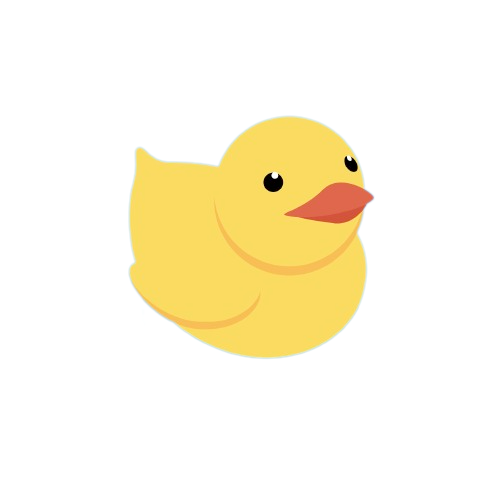
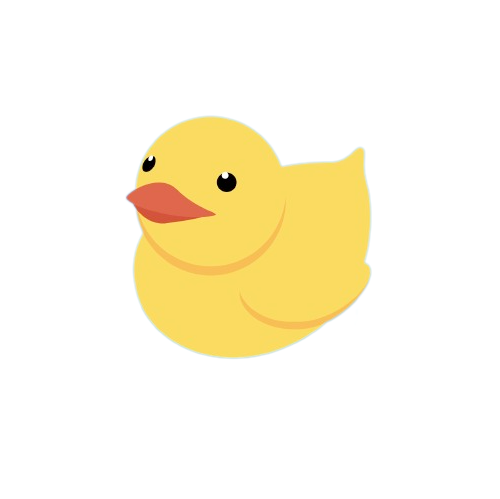
로긴 오리

Changed region(s): [[0.24, 0.2104, 0.75, 0.6012], [0.27, 0.5711, 0.72, 0.7214], [0.54, 0.4509, 0.57, 0.481]]

diff --git a/src/pages/Login.jsx b/src/pages/Login.jsx
@@ -176,14 +176,25 @@ const Wrapper = styled.div`
 
 const DuckAnimation2 = keyframes`
   0% {
-    transform: translateX(300px) translateY(100px);
+    transform: translateX(300px) translateY(50px) rotate(30deg);
   }
- 
+  25% {
+    transform: translateX(0px) translateY(50px) rotate(-30deg);
+  }
+  49% {
+    transform: translateX(-300px) translateY(50px) rotate(30deg);
+  }
   50% {
-    transform: translateX(-300px) translateY(0);
+    transform: translateX(-300px) translateY(50px) rotate(-30deg) rotateY(180deg);
+  }
+  75% {
+    transform: translateX(0px) translateY(50px) rotate(30deg) rotateY(180deg);
+  }
+  99% {
+    transform: translateX(300px) translateY(50px) rotate(-30deg) rotateY(180deg);
   }
   100% {
-    transform: translateX(300px) translateY(100px);
+    transform: translateX(300px) translateY(50px) rotate(30deg);
   }
 `;
 
